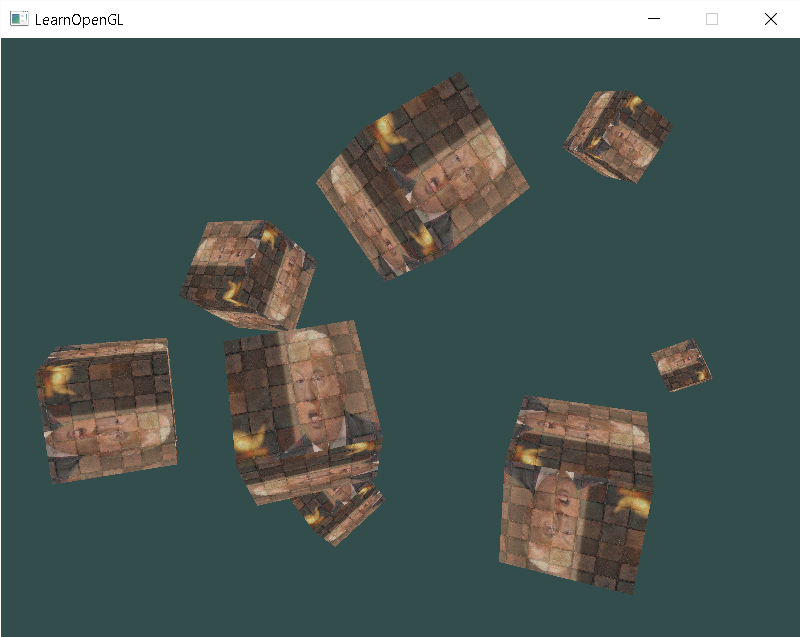
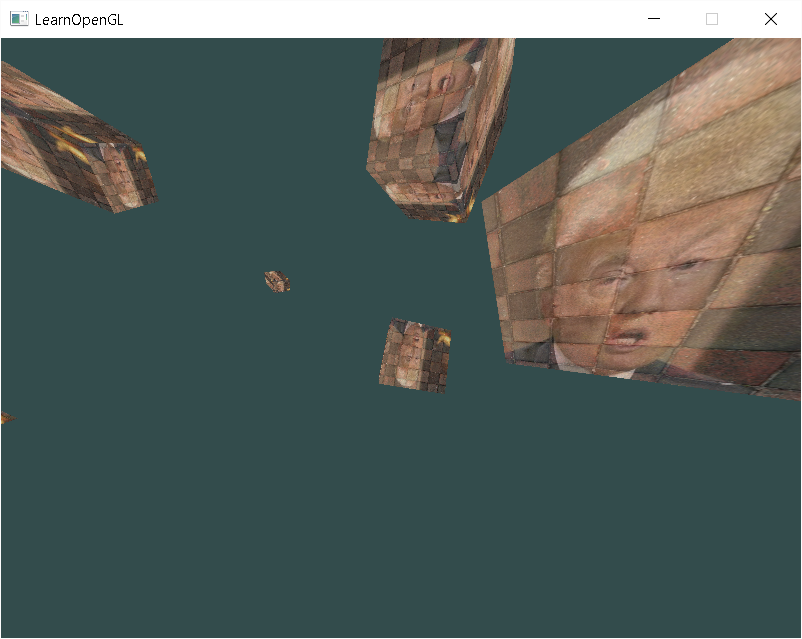
Woah! Cool perspective effectgit add result.png OpenGlFirst/Test.cpp  Zoom doesn't work though

diff --git a/OpenGlFirst/Test.cpp b/OpenGlFirst/Test.cpp
@@ -23,6 +23,7 @@ void key_callback(GLFWwindow* window, int key, int scancode, int action, int mod
 // For pseudo-parrallel input handling
 void do_movement();
 void mouse_callback(GLFWwindow* window, double xpos, double ypos);
+void scroll_callback(GLFWwindow* window, double xpos, double ypos);
 
 // Window dimensions
 const GLuint WIDTH = 800, HEIGHT = 600;
@@ -54,6 +55,9 @@ const GLuint WIDTH = 800, HEIGHT = 600;
 // This bool helps in preventing cam jumps
 	GLboolean firstMouse = true;
 
+// Global field of view value
+	GLfloat fov = 40.f;
+
 // The MAIN function, from here we start the application and run the game loop
 int main()
 {
@@ -74,6 +78,8 @@ int main()
     glfwSetKeyCallback(window, key_callback);
 	// Set callback func for mouse input
 	glfwSetCursorPosCallback(window, mouse_callback);
+	// Set callback func for mouse input
+	glfwSetScrollCallback(window, scroll_callback);
 
     // Set this to true so GLEW knows to use a modern approach to retrieving function pointers and extensions
     glewExperimental = GL_TRUE;
@@ -220,7 +226,7 @@ int main()
 
 	// Projection matrix.
 	glm::mat4 projection;
-	projection = glm::perspective(45.0f, (float)WIDTH/(float)HEIGHT , .1f, 100.f);
+	projection = glm::perspective(fov, (float)WIDTH/(float)HEIGHT , .1f, 100.f);
 
 	// Enable depth testing
 	glEnable(GL_DEPTH_TEST);
@@ -341,9 +347,10 @@ void do_movement()
     if (keys[GLFW_KEY_D])
         cameraPos += glm::normalize(glm::cross(cameraFront, cameraUp)) * cameraSpeed;
 	// Add extra accending and descending movement(by y axis)
-	if (keys[GLFW_KEY_LEFT_SHIFT] || keys[GLFW_KEY_LEFT_CONTROL])
+	if (keys[GLFW_KEY_LEFT_CONTROL])
 		cameraPos.y -= 0.5f * cameraSpeed;
-	if (keys[GLFW_KEY_SPACE] )
+
+	if (keys[GLFW_KEY_LEFT_SHIFT] || keys[GLFW_KEY_SPACE] )
 		cameraPos.y += 0.5f * cameraSpeed;
 	
 }
@@ -382,6 +389,16 @@ void mouse_callback(GLFWwindow * window, double xpos, double ypos)
 	front.y = sin(glm::radians(pitch));
 	front.z = cos(glm::radians(pitch)) * sin(glm::radians(yaw));
 	cameraFront = glm::normalize(front);
-
 	
+}
+
+void scroll_callback(GLFWwindow* window, double xoffset, double yoffset)
+{
+
+	if (fov >= 1.f && fov <= 45.f)
+		fov -= yoffset;
+	if (fov <= 1.f)
+		fov = 1.f;
+	if (fov >= 45.f)
+		fov = 45.f;
 }
